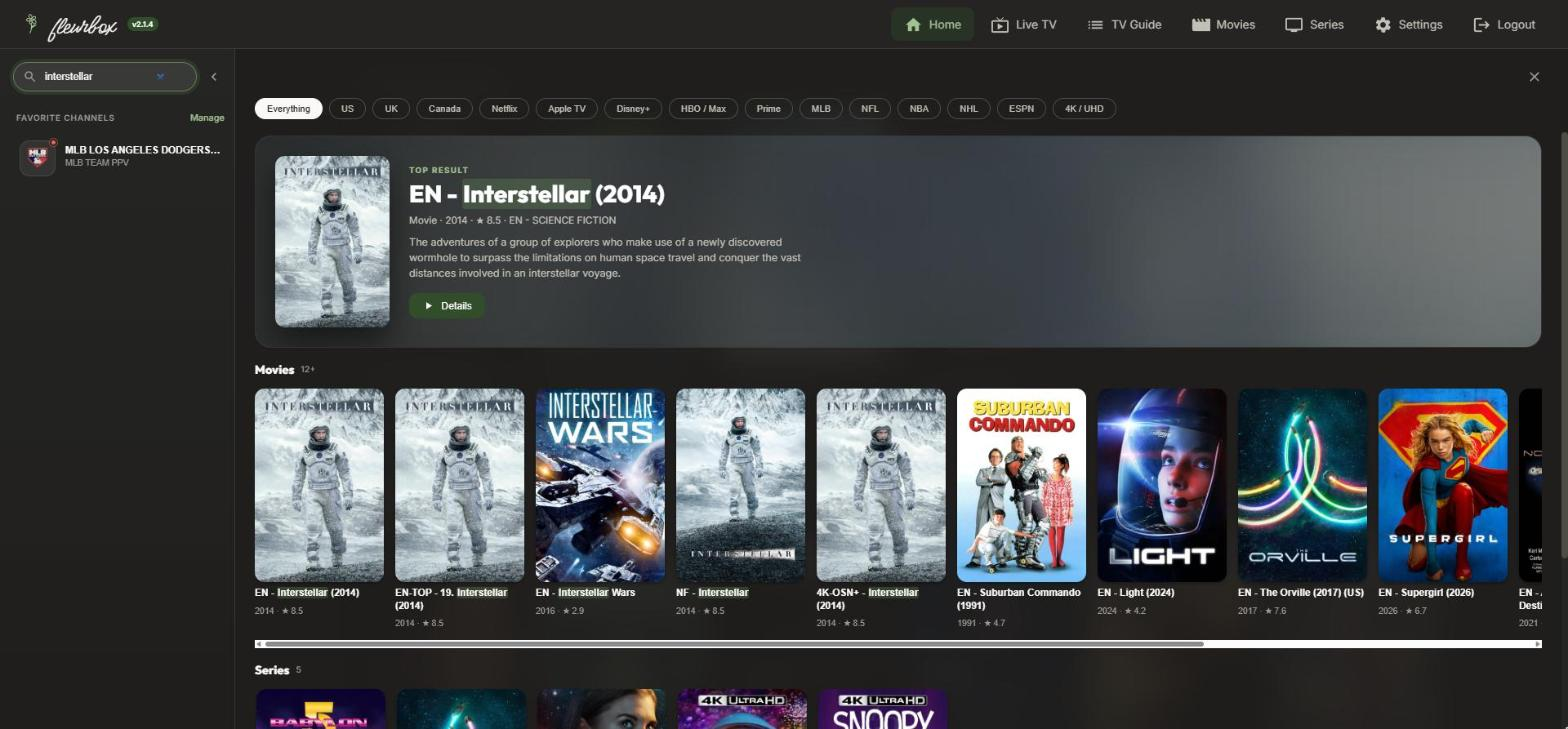
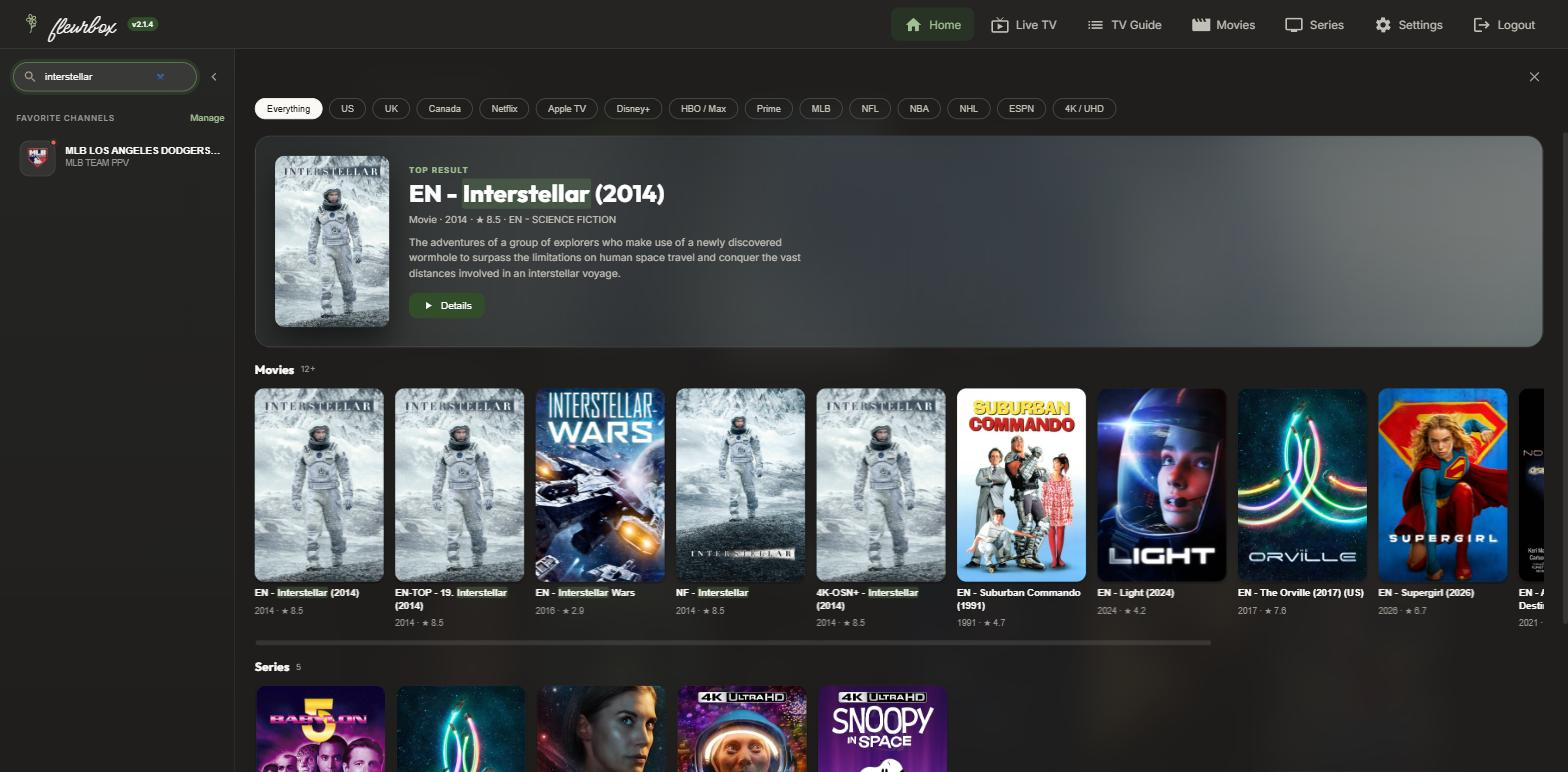
Fix search result scrollbar styling

diff --git a/public/css/main.css b/public/css/main.css
@@ -5487,7 +5487,6 @@ kbd {
   overflow-x: hidden;
   margin-right: calc(-1 * var(--space-xs));
   padding-right: var(--space-xs);
-  scrollbar-width: thin;
 }
 
 .rail-channel {
@@ -5943,7 +5942,51 @@ kbd {
   overflow-x: auto;
   padding: 4px 2px 14px;
   scroll-snap-type: x proximity;
-  scrollbar-width: thin;
+}
+
+/* Slim scrollbars, faint until hovered (like the Home rows). No
+   scrollbar-width here: Chrome then ignores ::-webkit-scrollbar and draws the
+   OS default (light, with arrow buttons). */
+.stage-shelf::-webkit-scrollbar,
+.rail-channels::-webkit-scrollbar,
+.stage-body::-webkit-scrollbar {
+  width: 6px;
+  height: 6px;
+}
+
+.stage-shelf::-webkit-scrollbar-track,
+.rail-channels::-webkit-scrollbar-track,
+.stage-body::-webkit-scrollbar-track {
+  background: transparent;
+}
+
+.stage-shelf::-webkit-scrollbar-thumb,
+.rail-channels::-webkit-scrollbar-thumb,
+.stage-body::-webkit-scrollbar-thumb {
+  background: rgba(255, 255, 255, 0.1);
+  border-radius: 3px;
+}
+
+.stage-shelf:hover::-webkit-scrollbar-thumb,
+.rail-channels:hover::-webkit-scrollbar-thumb,
+.stage-body:hover::-webkit-scrollbar-thumb {
+  background: rgba(255, 255, 255, 0.25);
+}
+
+.stage-shelf::-webkit-scrollbar-button,
+.rail-channels::-webkit-scrollbar-button,
+.stage-body::-webkit-scrollbar-button {
+  display: none;
+}
+
+/* Firefox has no ::-webkit-scrollbar */
+@supports not selector(::-webkit-scrollbar) {
+  .stage-shelf,
+  .rail-channels,
+  .stage-body {
+    scrollbar-width: thin;
+    scrollbar-color: rgba(255, 255, 255, 0.18) transparent;
+  }
 }
 
 .stage-card {

diff --git a/public/index.html b/public/index.html
@@ -10,7 +10,7 @@
   <title>fleurbox | IPTV Player</title>
   <meta name="description" content="Stream live TV, movies, and series with EPG support">
   <link rel="icon" type="image/svg+xml" href="/favicon.svg">
-  <link rel="stylesheet" href="css/main.css?v=14">
+  <link rel="stylesheet" href="css/main.css?v=15">
   <link rel="preconnect" href="https://fonts.googleapis.com">
   <link rel="preconnect" href="https://fonts.gstatic.com" crossorigin>
   <link href="https://fonts.googleapis.com/css2?family=Inter:wght@400;500;600;700&family=Outfit:wght@800&family=Meow+Script&display=swap"
